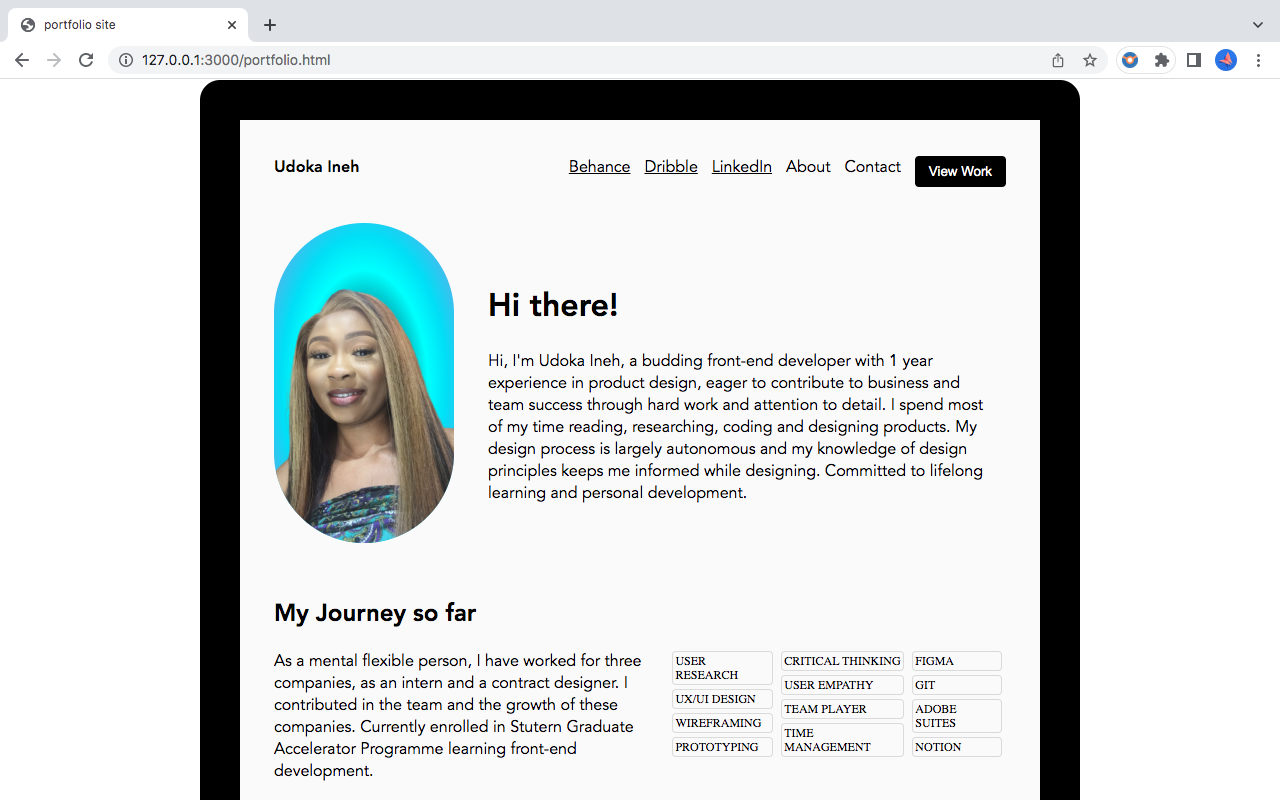
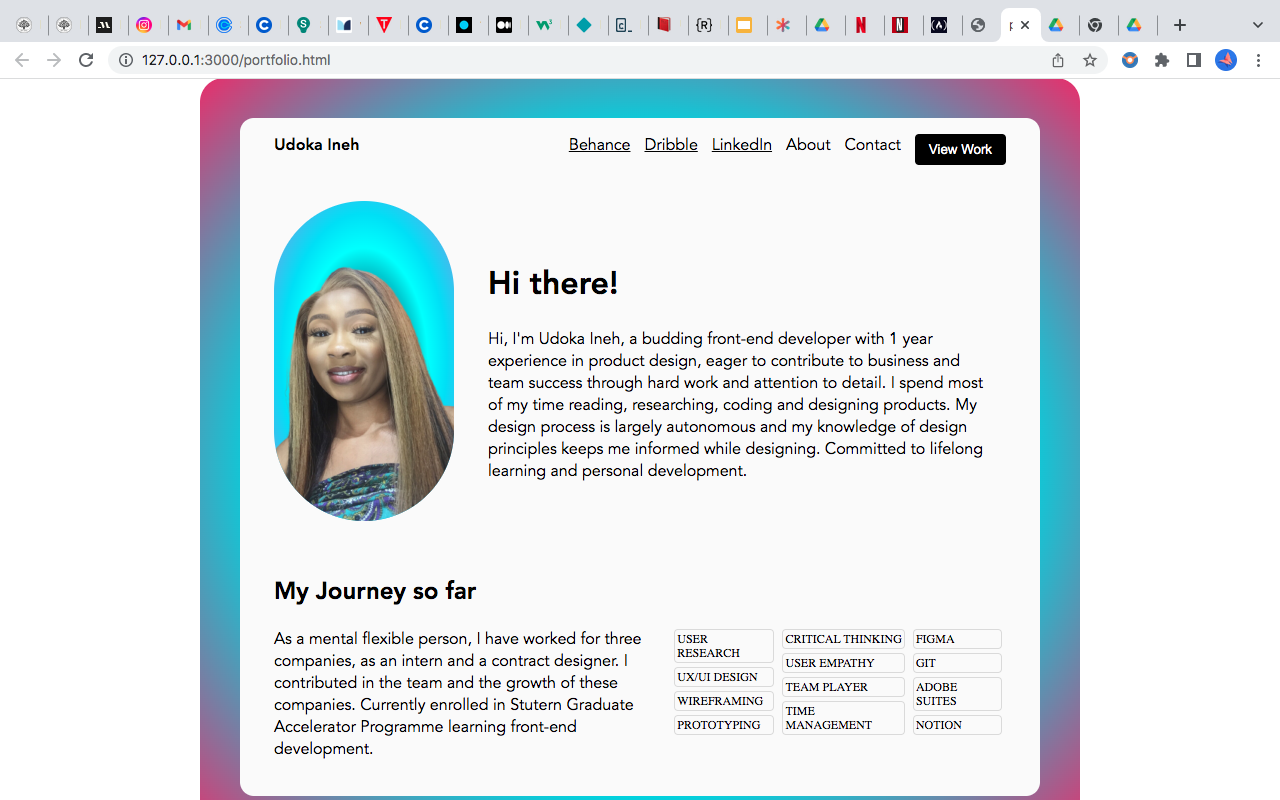
portfolio mofigation

diff --git a/portfolio.html b/portfolio.html
@@ -9,68 +9,70 @@
   </head>
 
   <body>
-    <div class="wrapper">
-      <nav class="navigation">
-        <p><b>Udoka Ineh</b></p>
-        <ul class="navlink">
-          <li><a href="https://www.behance.net/udokaineh">Behance</a></li>
-          <li><a href="https://dribbble.com/Udokaineh">Dribble</a></li>
-          <li>
-            <a href="https://www.linkedin.com/in/udoka-ineh/">LinkedIn</a>
-          </li>
-          <li>About</li>
-          <li>Contact</li>
-          <li><button>View Work</button></li>
-        </ul>
-      </nav>
+    <div class="overall">
+      <div class="wrapper">
+        <nav class="navigation">
+          <p><b>Udoka Ineh</b></p>
+          <ul class="navlink">
+            <li><a href="https://www.behance.net/udokaineh">Behance</a></li>
+            <li><a href="https://dribbble.com/Udokaineh">Dribble</a></li>
+            <li>
+              <a href="https://www.linkedin.com/in/udoka-ineh/">LinkedIn</a>
+            </li>
+            <li>About</li>
+            <li>Contact</li>
+            <li><button>View Work</button></li>
+          </ul>
+        </nav>
 
-      <div class="about-me">
-        <div class="img-style">
-          <img class="photo" src="/Images/udoka.png" alt="My photo" />
+        <div class="about-me">
+          <div class="img-style">
+            <img class="photo" src="/Images/udoka.png" alt="My photo" />
+          </div>
+          <div class="aboutme-text">
+            <h1>Hi there!</h1>
+            <p>
+              Hi, I'm Udoka Ineh, a budding front-end developer with 1 year
+              experience in product design, eager to contribute to business and
+              team success through hard work and attention to detail. I spend
+              most of my time reading, researching, coding and designing
+              products. My design process is largely autonomous and my knowledge
+              of design principles keeps me informed while designing. Committed
+              to lifelong learning and personal development.
+            </p>
+          </div>
         </div>
-        <div class="aboutme-text">
-          <h1>Hi there!</h1>
-          <p>
-            Hi, I'm Udoka Ineh, a budding front-end developer with 1 year
-            experience in product design, eager to contribute to business and
-            team success through hard work and attention to detail. I spend most
-            of my time reading, researching, coding and designing products. My
-            design process is largely autonomous and my knowledge of design
-            principles keeps me informed while designing. Committed to lifelong
-            learning and personal development.
-          </p>
-        </div>
-      </div>
 
-      <div class="journey">
-        <div class="my-journey">
-          <h2>My Journey so far</h2>
-          <p>
-            As a mental flexible person, I have worked for three companies, as
-            an intern and a contract designer. I contributed in the team and the
-            growth of these companies. Currently enrolled in Stutern Graduate
-            Accelerator Programme learning front-end development.
-          </p>
-        </div>
-        <div class="skills">
-          <span>
-            <li>User Research</li>
-            <li>UX/UI Design</li>
-            <li>Wireframing</li>
-            <li>Prototyping</li>
-          </span>
-          <span>
-            <li>Critical Thinking</li>
-            <li>User Empathy</li>
-            <li>Team Player</li>
-            <li>Time Management</li>
-          </span>
-          <span>
-            <li>Figma</li>
-            <li>Git</li>
-            <li>Adobe Suites</li>
-            <li>Notion</li>
-          </span>
+        <div class="journey">
+          <div class="my-journey">
+            <h2>My Journey so far</h2>
+            <p>
+              As a mental flexible person, I have worked for three companies, as
+              an intern and a contract designer. I contributed in the team and
+              the growth of these companies. Currently enrolled in Stutern
+              Graduate Accelerator Programme learning front-end development.
+            </p>
+          </div>
+          <div class="skills">
+            <span>
+              <li>User Research</li>
+              <li>UX/UI Design</li>
+              <li>Wireframing</li>
+              <li>Prototyping</li>
+            </span>
+            <span>
+              <li>Critical Thinking</li>
+              <li>User Empathy</li>
+              <li>Team Player</li>
+              <li>Time Management</li>
+            </span>
+            <span>
+              <li>Figma</li>
+              <li>Git</li>
+              <li>Adobe Suites</li>
+              <li>Notion</li>
+            </span>
+          </div>
         </div>
       </div>
     </div>

diff --git a/portfolio.css b/portfolio.css
@@ -2,12 +2,19 @@ body {
   font-family: Avenir;
 }
 .wrapper {
-    max-width: 500%;
+  max-width: 500%;
   background-color: rgb(250, 250, 250);
   width: 800px;
   margin: 0 auto;
-  border: 40px solid black;
-  border-radius: 20px;
+  border-radius: 14px;
+}
+.overall {
+  background-image: radial-gradient(red, cyan, rgb(228, 48, 108));
+  width: 860px;
+  padding: 20px 10px;
+
+  margin: auto;
+  border-radius: 24px;
 }
 .navigation {
   display: flex;
@@ -65,7 +72,6 @@ button {
   border-radius: 4px;
   padding: 2px;
   font-size: 12px;
-  
 }
 .my-journey {
   width: 400px;
@@ -74,7 +80,7 @@ a {
   color: black;
 }
 .skills {
-  margin-left: px;
+  margin-left: 4px;
   display: flex;
   padding-top: 70px;
 }
